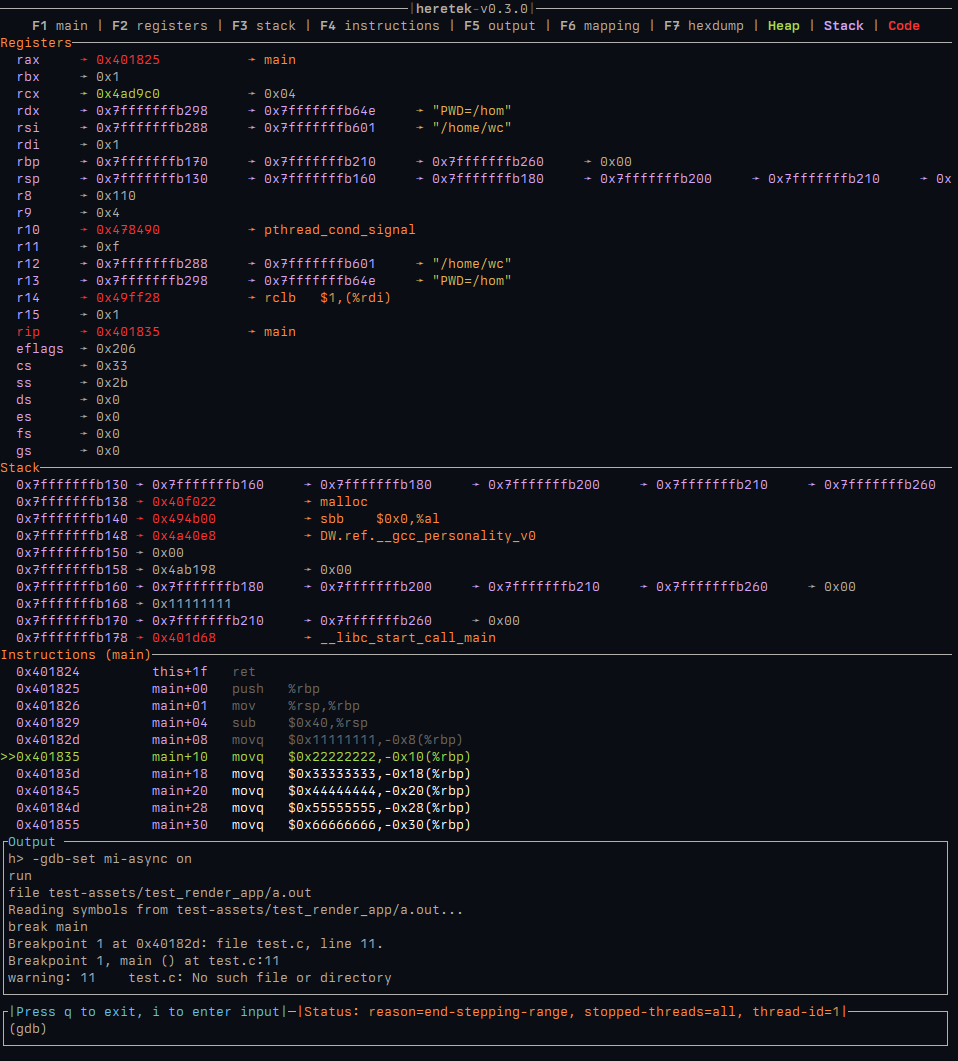
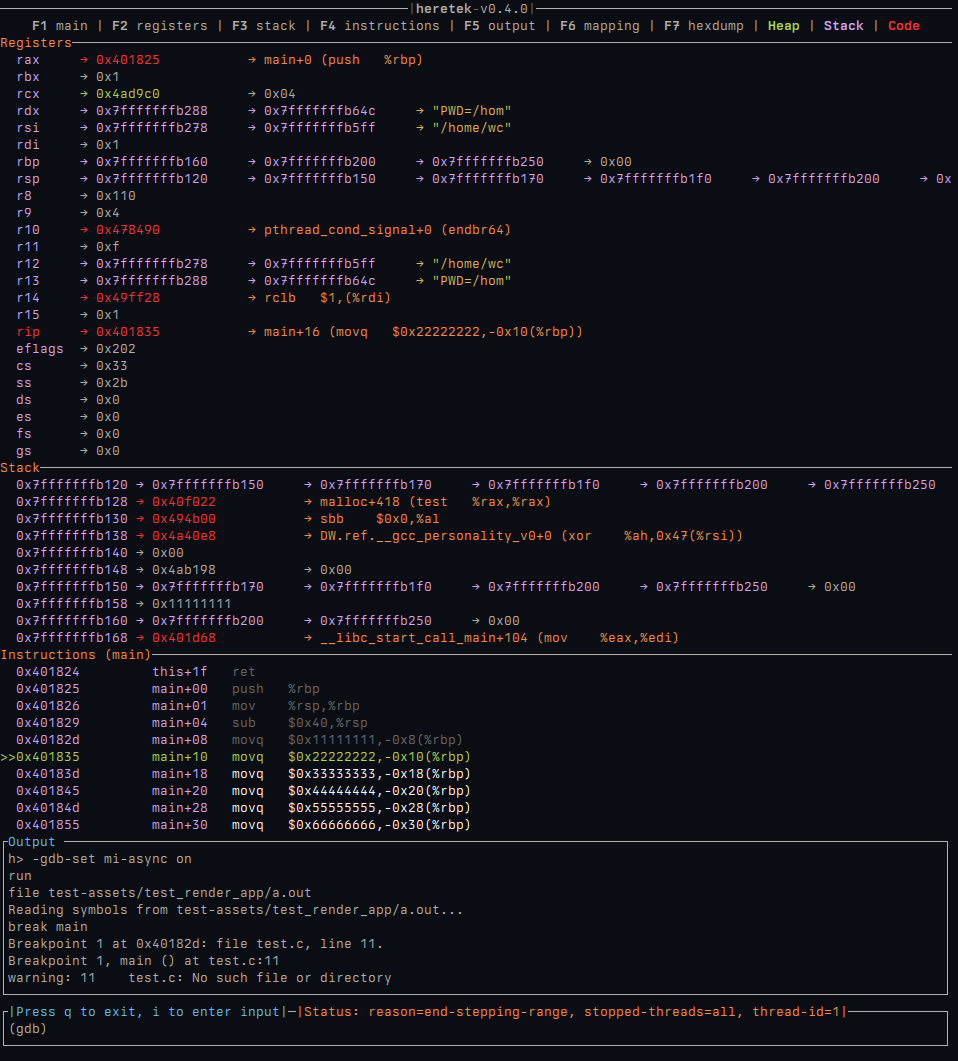
rel: v0.4.0

diff --git a/CHANGELOG.md b/CHANGELOG.md
@@ -6,6 +6,14 @@ and this project adheres to [Semantic Versioning](https://semver.org/spec/v2.0.0
 
 ## [Unreleased]
 
+## [0.4.0] - 2025-01-14
+- Display registers that point to addresses in Hexdump [#115](https://github.com/wcampbell0x2a/heretek/pull/115)
+- Show asm and function offset in asm deref [#117](https://github.com/wcampbell0x2a/heretek/pull/117)
+- Expand `HERETEK_MAPPING_{START,END,LEN}` to allow optional index of mapping [#116](https://github.com/wcampbell0x2a/heretek/pull/116)
+- Fix `HERETEK_MAPPING_{START,END,LEN}` to allow all ascii chars as filename [#116](https://github.com/wcampbell0x2a/heretek/pull/116)
+- Add `--cmds` to cmd history [#118](https://github.com/wcampbell0x2a/heretek/pull/118)
+- Ignore `#` comment lines in `--cmds` [#119](https://github.com/wcampbell0x2a/heretek/pull/119)
+
 ## [0.3.0] - 2025-01-09
 - Adjusted size of UI elements in Main View [#102](https://github.com/wcampbell0x2a/heretek/pull/102)
 - Add `--gdb-path` to override gdb executated [#101](https://github.com/wcampbell0x2a/heretek/pull/101)
